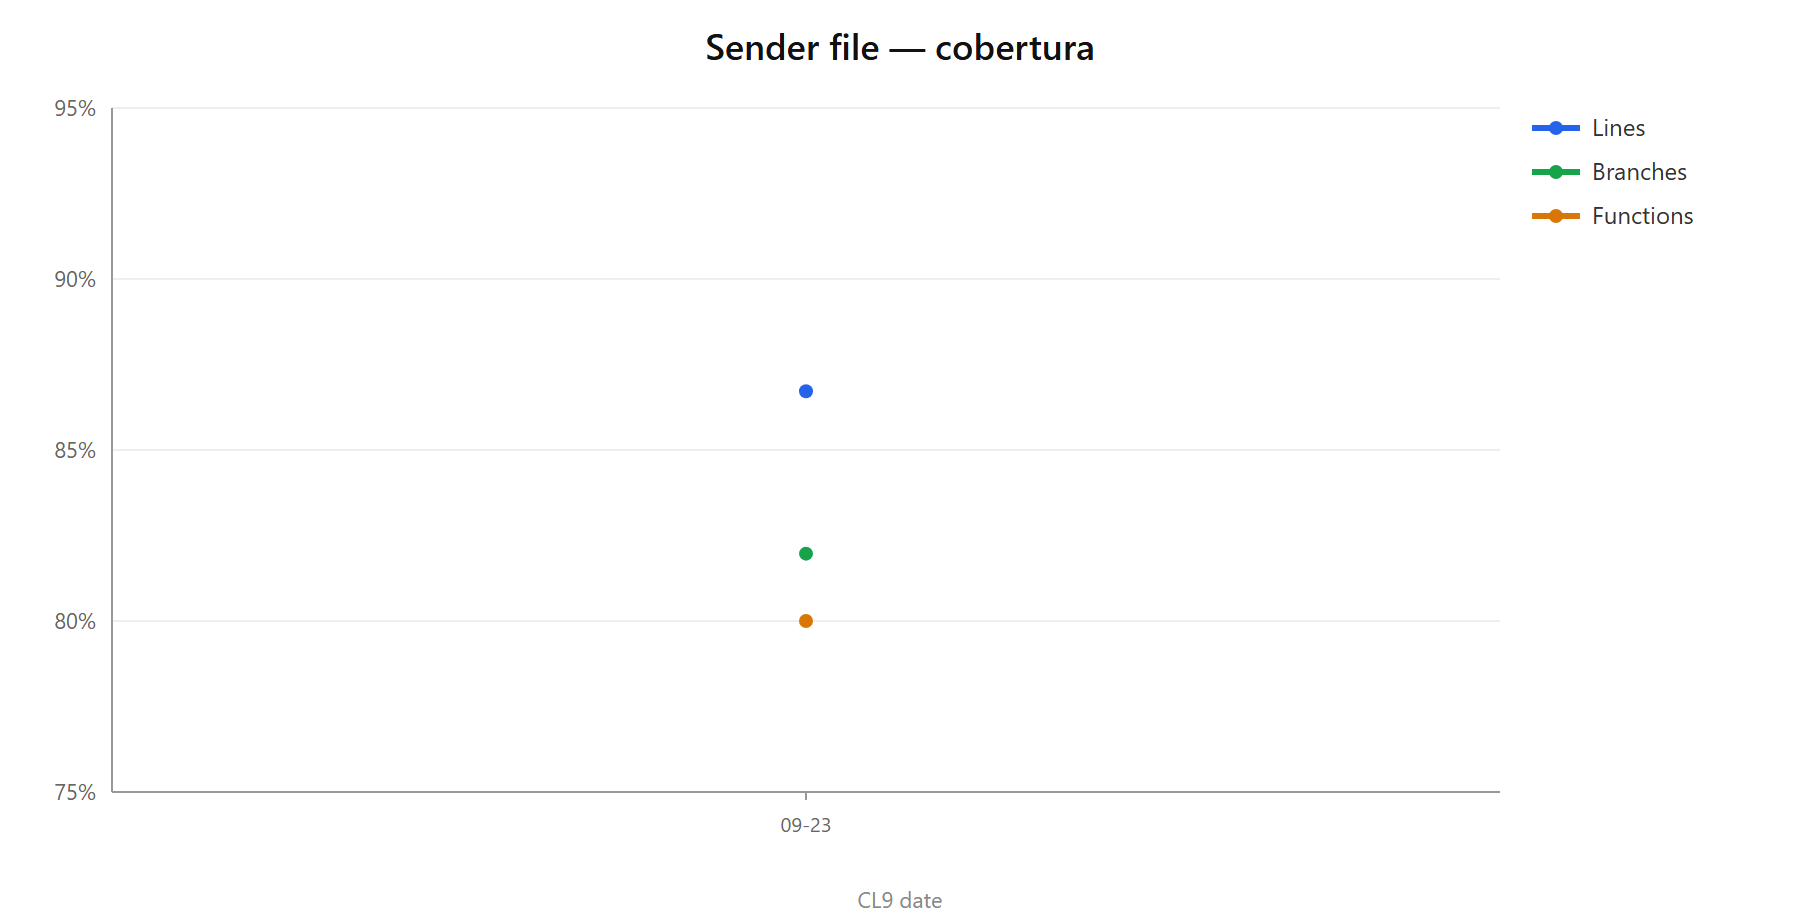
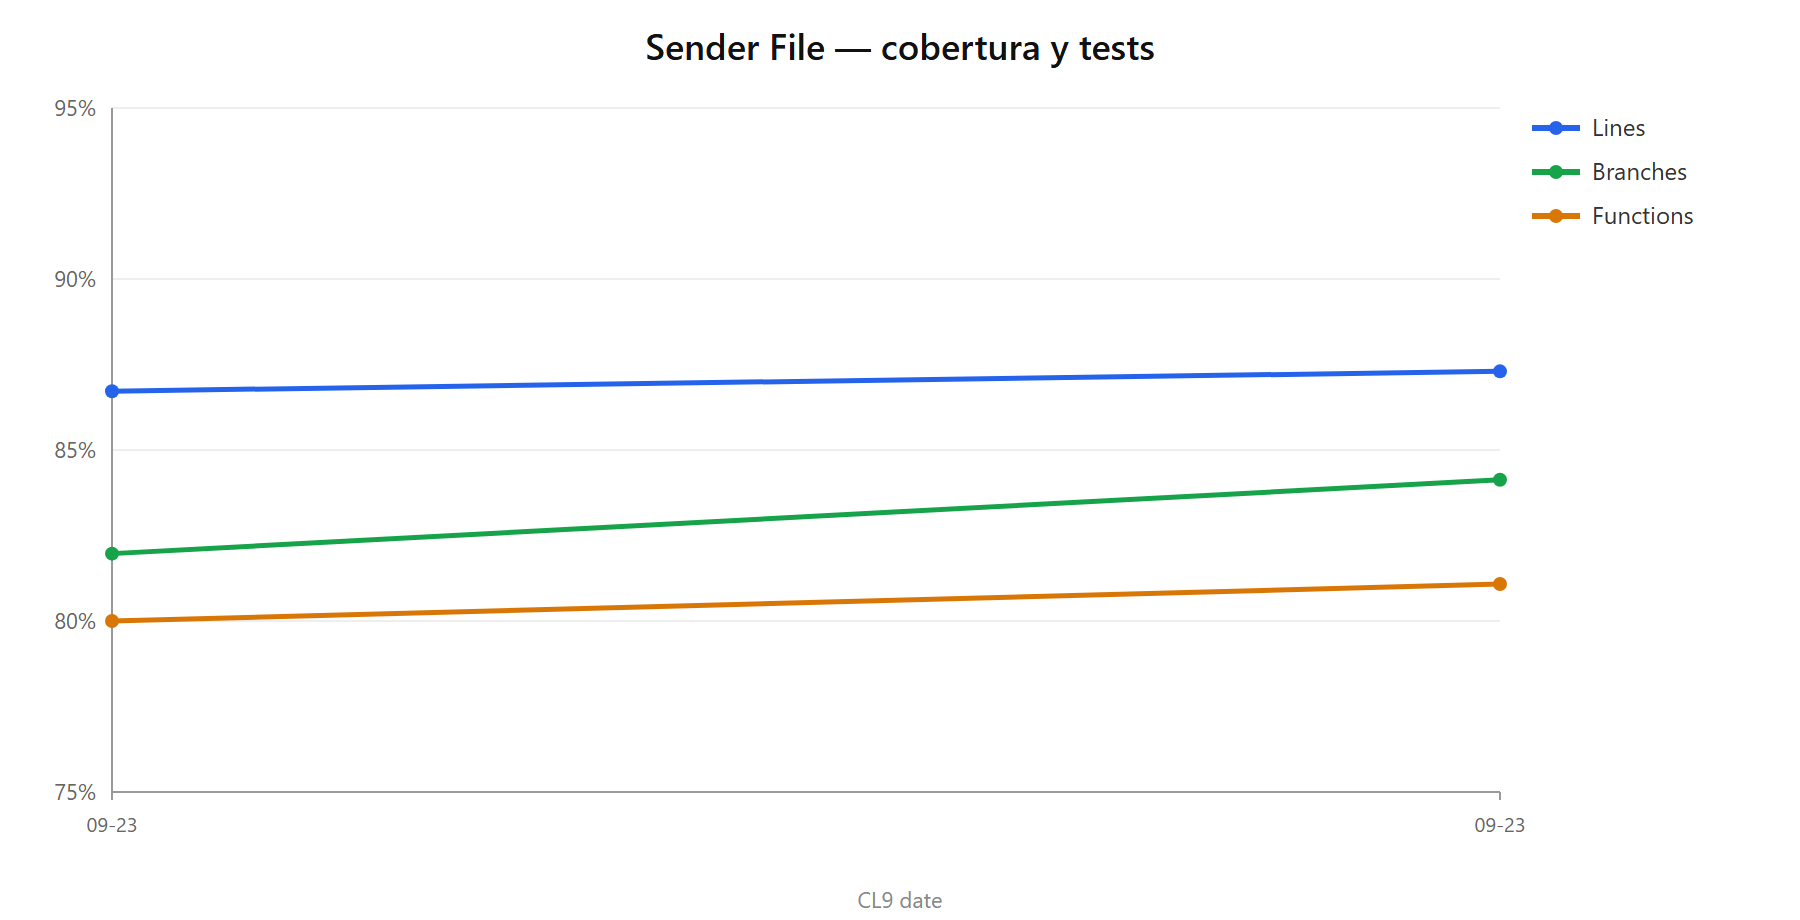
fix(file): el origen de una linea que no viene de un pod estaba a medias
La etiqueta se componia con [namespace, pod, container] y solo caia al `service`
si no habia nada de eso. Pero quien reenvia pone el HOST en el campo del pod —es
lo que un destino espera como su host—, asi que para una maquina la etiqueta se
quedaba en el nombre de la maquina y el servicio no aparecia NUNCA.

Una maquina corre muchos servicios, y en el fichero todas sus lineas parecian la
misma: se veia [windows-dev] tanto para la aplicacion como para el Event Log.

Ahora la forma depende de si hay namespace: con el, namespace/pod/container como
siempre; sin el, host/service, que es lo unico que distingue de verdad.

Lo saco el QA del reenvio de montag hacia un fichero, con un Windows mandando por
Fluent Bit sus dos fuentes a la vez. +2 tests, uno por cada forma de origen.

diff --git a/senders/file/tests/file.test.ts b/senders/file/tests/file.test.ts
@@ -80,6 +80,31 @@ test('sin pod, el origen se identifica por su servicio', async () => {
     assert.deepEqual(lee(ruta), ['[facturacion] linea'])
 })
 
+test('una linea de una MAQUINA lleva su host Y el servicio que la produjo', async () => {
+    const ruta = tmp()
+    const sender = await crea({ name: 'c', filePath: ruta, timestamps: false, levels: false, origin: true })
+
+    /*
+        Log de fuera de un cluster: no hay namespace, y quien lo produce pone el HOST en el campo del
+        pod, porque es lo que un destino espera como su host. Si se toma el trio de Kubernetes en
+        cuanto hay pod, el servicio se pierde — y una maquina corre muchos, asi que todas sus lineas
+        acaban pareciendo la misma.
+    */
+    await sender.sendBatch!('c', [{ body: 'latido', origin: { pod: 'windows-dev', service: 'demo-app' } }])
+
+    assert.deepEqual(lee(ruta), ['[windows-dev/demo-app] latido'])
+})
+
+test('y una de un cluster sigue siendo namespace/pod/container', async () => {
+    const ruta = tmp()
+    const sender = await crea({ name: 'c', filePath: ruta, timestamps: false, levels: false, origin: true })
+
+    // el servicio NO se cuela aqui: dentro de un cluster el container ya dice que es
+    await sender.sendBatch!('c', [{ body: 'linea', origin: { namespace: 'produccion', pod: 'api-7', container: 'api', service: 'pagos' } }])
+
+    assert.deepEqual(lee(ruta), ['[produccion/api-7/api] linea'])
+})
+
 test('un mensaje sin origen no deja corchetes vacios', async () => {
     const ruta = tmp()
     const sender = await crea({ name: 'c', filePath: ruta, timestamps: false, levels: false, origin: true })

diff --git a/senders/file/src/back/index.ts b/senders/file/src/back/index.ts
@@ -86,8 +86,17 @@ export class FileSender implements ISender {
         let origin = ''
         if ((config.origin ?? false) && message.origin) {
             const o = message.origin
-            const partes = [o.namespace, o.pod, o.container].filter(Boolean).join('/')
-            const etiqueta = partes || o.service || ''
+            /*
+             * A line from a cluster is identified by namespace/pod/container. A line from a MACHINE has
+             * no namespace: what identifies it is the host plus the service that produced it — and the
+             * service is the half that matters, because one machine runs many. Producers put the host
+             * in the pod field on purpose (it is what a destination expects as its host), so taking
+             * the Kubernetes trio whenever a pod is present dropped the service and left every line of
+             * a machine looking the same, whichever service wrote it.
+             */
+            const etiqueta = o.namespace
+                ? [o.namespace, o.pod, o.container].filter(Boolean).join('/')
+                : [o.pod, o.service].filter(Boolean).join('/')
             if (etiqueta) origin = `[${etiqueta}] `
         }
 

diff --git a/senders/file/docs/qa/test-metrics-history.md b/senders/file/docs/qa/test-metrics-history.md
@@ -11,4 +11,5 @@
 
 | Fecha | Versión / tag | Harness | Cobertura (líneas / ramas / funcs) | e2e (specs / casos) | Notas |
 |---|---|---|---|---|---|
+| 2026-09-23 | `sender/file@0.1.14` | **16** | **87.30% / 84.13% / 81.08%** | — / QA manual (reenvio desde montag, con log de un Windows real) | **El origen de una linea que no viene de un pod estaba a medias.** La etiqueta se componia con `[namespace, pod, container]` y solo caia al `service` si no habia nada de eso; pero quien reenvia pone el **host en el campo del pod** —es lo que un destino espera como su host—, asi que para una maquina la etiqueta se quedaba en el nombre de la maquina y el servicio **no aparecia nunca**. Una sola maquina corre muchos servicios, y en el fichero todas sus lineas parecian la misma: se veia `[windows-dev]` tanto para la aplicacion como para el Event Log. Ahora la forma depende de si hay namespace: con el, `namespace/pod/container` como siempre; sin el, `host/service`, que es lo unico que distingue de verdad. Lo saco el QA del reenvio de montag hacia un fichero, con un Windows enviando por Fluent Bit sus dos fuentes a la vez. **+2 tests**, uno por cada forma de origen. |
 | 2026-09-23 | `sender/file@0.1.13` | **14** | **86.72% / 81.97% / 80.00%** | — / QA manual | **Primer sender con `sendBatch`, y primeros tests de un sender.** Un lote se escribe en **una sola** llamada en vez de una por línea: quien reenvía log entrega cien líneas de golpe, y una syscall por línea convierte un append barato en lo más lento de la cadena. El formato es **idéntico** al de `send` —hay un test que compara los dos ficheros— porque un lote es un detalle de rendimiento, no otro formato. Opción nueva **`origin`**, apagada por defecto para no cambiar la forma de los ficheros que ya existen: con ella cada línea lleva `[namespace/pod/container]`, o el `service` cuando la línea no viene de ningún pod (un evento de negocio, un servidor sin contenedores). ⚠ La trampa que cubren los tests: **la rotación cuenta el lote entero**, porque escribir cien líneas de una vez no puede saltarse el `maxLines`; y `send` y `sendBatch` comparten el contador, así que mezclarlos no descuadra la rotación. **Dos cosas más que destapó el QA en vivo**: cada línea lleva ahora **su propia hora** —la del productor, que viaja en `origin.timestamp`— porque al entregar por lotes el sender fechaba al escribir y quince líneas salían con el mismo instante, perdiendo justo lo que hace útil un log; y el esquema **declara sus valores por defecto** (`timestamps` y `levels` a `true`), porque el diálogo pintaba un interruptor apagado para un campo que se comportaba como encendido. |
